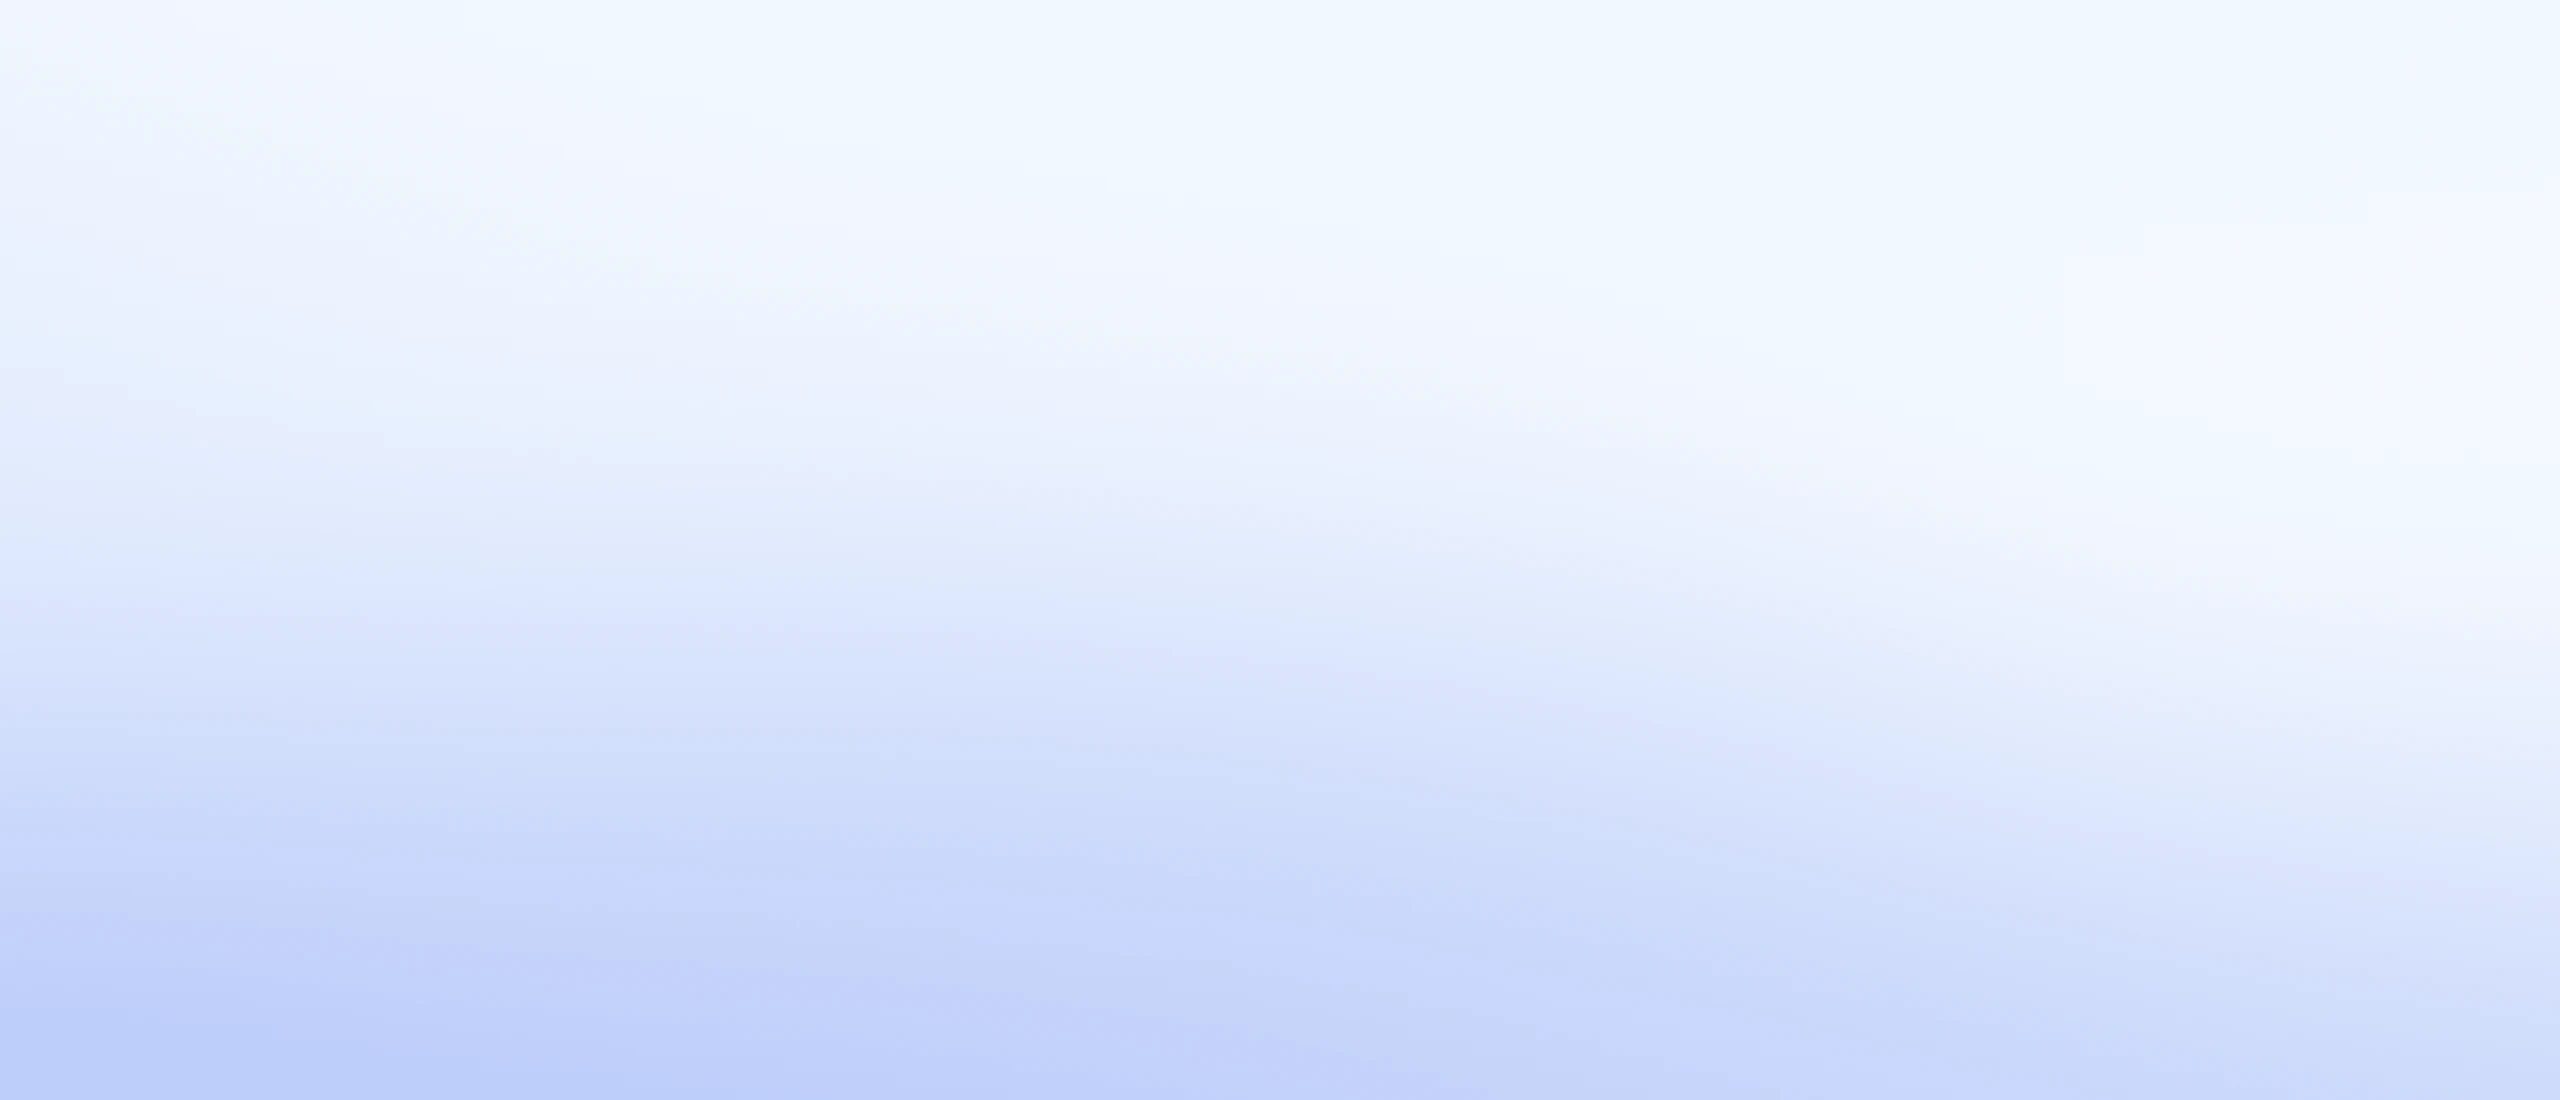
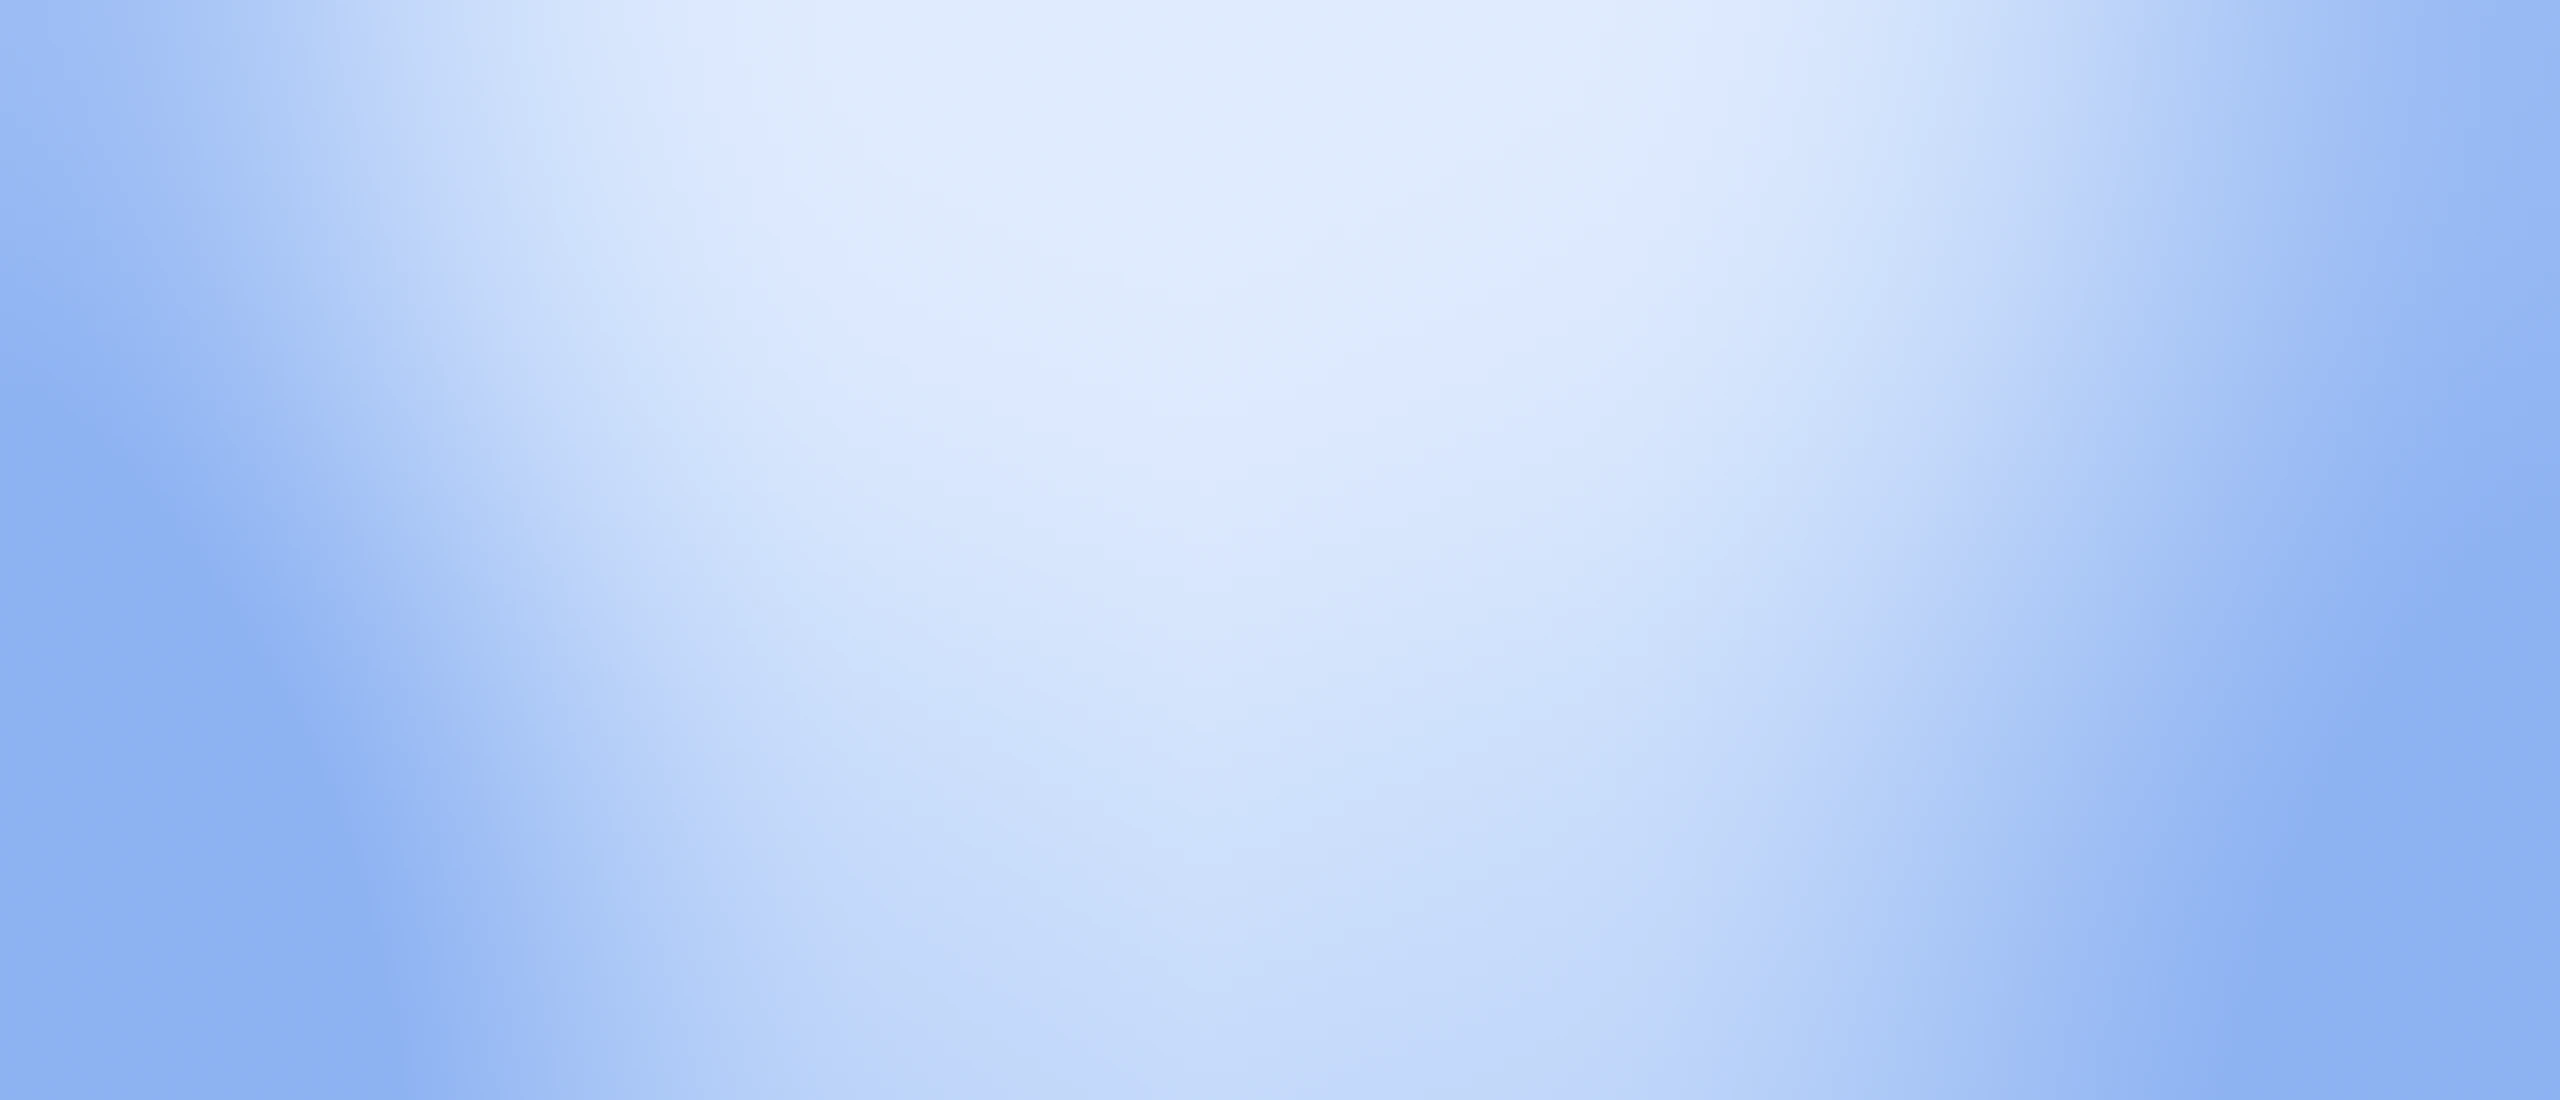
feat(home): give the hero wash real depth, visible grain and an edge (#541)
The homepage hero card read as an almost-white rectangle with no visible
corners. Measured, the complaint was exact: the wash lifted to luminance
0.948 at its top corner against a 0.9536 page ground — a 1.01:1 step, i.e.
no edge at all — and the flat areas carried 0.06-0.20 RMS of high-frequency
variation, which is to say none.

Three causes, three fixes.

1. THE FIELD WAS CORNER-ANCHORED AND `cover` CROPPED IT AWAY. A 2560px-wide
   field painted with `background-size: cover` shows its middle 66% at a 1440
   viewport and its middle 10% at 375, so a bottom-left-deep / top-right-pale
   ramp put all of its range off screen at the widths people use. The field
   is now a centre-lit vignette: a light column down the middle (the slice
   every crop keeps) falling away to the left and right rails and toward the
   bottom. The rails are structurally text-free — copy is capped at 780px
   inside a card up to 2509px wide — so they carry the range, and they sit
   exactly where the card meets the page. Rendered: 1.96:1 page-to-card step
   at 2560, 1.35:1 at 1440, card span 1.69:1 (was 1.02:1 and 1.07:1).

2. GRAIN CANNOT BE BAKED INTO A `cover` LAYER. Downscaling 2560px to 1411px
   averages per-pixel noise out of existence, which is why the existing ±1 LSB
   anti-banding dither was never going to be visible no matter how far it was
   pushed. The grain is now its own 192x192 tile, `repeat` at natural size, so
[…]

diff --git a/src/server/public/style.css b/src/server/public/style.css
@@ -1949,24 +1949,53 @@ html[data-theme="dark"],
    image 404s or WebP is unsupported, the card falls back to the flat tint it
    has today; nothing renders white.
 
-   The asset is generated, not licensed: scripts/make-hero-wash.mjs computes
-   the field per-pixel in float from these same tokens (base = a touch richer
-   than --surface-hero, deepening toward --accent at ~26% in the bottom-left,
-   lifting to near-white at the top-right), adds a low-frequency value-noise
-   mesh so it is never a pure ramp, and applies ±1 LSB triangular dither —
-   which is what keeps a 2560px-wide wash from banding at 8 bits. 2560×1100,
-   ~13 KB each.
+   The assets are generated, not licensed: scripts/make-hero-wash.mjs computes
+   the field per-pixel in float from these same tokens, adds a low-frequency
+   value-noise mesh so it is never a pure ramp, and applies ±1 LSB triangular
+   dither — which is what keeps a 2560px-wide wash from banding at 8 bits.
+   2560×1100, ~16 KB light / ~12 KB dark.
+
+   THE FIELD IS A CENTRE-LIT VIGNETTE, and the first cut was not. It deepened
+   toward the bottom-left and lifted to NEAR-WHITE at the opposite corner, and
+   near-white is the one thing it could not be: `--bg` is #F8FAFC at luminance
+   0.9536 and the lift reached 0.948, a 1.01:1 step. A 1.01:1 step is not an
+   edge — the card had no visible corners and the wash read as a flat white
+   field. `cover` made it worse, cropping a 2560px-wide field to its middle 66%
+   at 1440 and its middle 10% at 375, so whatever range the corners carried was
+   not on screen at the widths people actually use.
+
+   So: the light column runs down the MIDDLE, where every crop lands, and the
+   tone falls away to the left and right rails and toward the bottom. The rails
+   are structurally text-free (copy is capped at 780px inside a card up to
+   2509px wide), so they carry the range — and they sit exactly where the card
+   meets the page. Measured on the rendered page: palest pixel 0.786 against
+   the 0.954 page ground (1.20:1), rails down to 0.418 (1.89:1 at the 1440
+   crop), and the lead paragraph's `--muted` never drops below 4.8:1.
+
+   --surface-hero-grain is the TEXTURE, and it is a second, tiled layer rather
+   than part of the wash for a mechanical reason: `cover` downscales the wash,
+   and downscaling averages per-pixel grain out of existence. Tiled 1:1 at its
+   natural 192×192 it renders identically at every card width. It is
+   theme-invariant by construction — grey speckle over a constant low alpha
+   darkens a light ground and lightens a dark one by the same amount — so one
+   17.5 KB asset serves both themes and there is no second token to keep in
+   sync. Amplitude is 3.85 RMS from the local mean, set against a measurement
+   of the reference treatment (~4.3 RMS): enough to read as texture at 100%,
+   not enough to read as dirt or to cost text contrast.
 
    Split light/dark by the SAME cascade `--surface-hero` uses six lines up, so
    one switch drives both the base colour and the image. The dark variant is a
    real sibling (anchored on #131A28, same field, same accent) rather than a
    suppression: a flat rectangle in dark next to a washed card in light reads
-   as the unfinished theme.
+   as the unfinished theme. Its envelope is bounded at the TOP instead of the
+   bottom — dark `--muted` #90A1B9 needs the ground under luminance 0.0386 —
+   so it runs 0.018 → 0.035, a 1.23:1 step off the #0C111D page ground.
 
    Appended at EOF for baseline-protocol.md rule 1 (the guards key file:line).
    ───────────────────────────────────────────────────────────────────────── */
 :root {
   --surface-hero-image: url("/brand/hero-wash-light.webp");
+  --surface-hero-grain: url("/brand/hero-grain.webp");
 }
 html[data-theme="dark"],
 :root:not([data-theme="light"]) {

diff --git a/src/server/public/landing-home-grid.css b/src/server/public/landing-home-grid.css
@@ -34,22 +34,42 @@
 /* The card itself: a soft blue WASH, 12px radius, a ~14px page rail down both
    sides, flush under the sticky header.
 
-   The wash is `--surface-hero-image`, a generated decorative raster (style.css
-   EOF explains how it is made and why it is a raster and not a CSS gradient —
-   the design law forbids gradients, and the reference achieves this look the
-   same way). It is layered OVER the flat `--surface-hero` colour, so a failed
-   or unsupported image leaves the card on the tint it had before, never white.
+   TWO decorative rasters, both generated (style.css EOF explains how and why
+   they are rasters and not CSS gradients — the design law forbids gradients).
+   Both sit OVER the flat `--surface-hero` colour, so a failed or unsupported
+   image leaves the card on the tint it had before, never white.
 
-   `cover` + `50% 100%` is the geometry that survives every width: the field's
-   deepening runs along the bottom edge, so anchoring to centre-bottom keeps
-   the focal area pinned to the base of the card from a 367px-wide portrait
-   crop at 375px right out to a 2509px-wide ultrawide one. */
+   Layer order is top-to-bottom in the shorthand:
+
+   1. `--surface-hero-grain` — a 192×192 film-grain tile, `repeat` at its
+      NATURAL size. It must not be part of the wash: the wash is painted with
+      `cover`, and `cover` downscales a 2560px field to ~1411px at a 1440
+      viewport, which averages per-pixel grain straight out of existence.
+      Tiled at 1:1 it survives at every card width unchanged. Theme-invariant
+      — grey speckle darkens a light ground and lightens a dark one by the
+      same amount, so one asset serves both.
+   2. `--surface-hero-image` — the wash, `cover` at `50% 100%`. The field is a
+      centre-lit vignette: a light column down the middle (the only slice a
+      narrow viewport ever sees) with the tone falling away to the left and
+      right rails and toward the bottom. Anchoring to centre-bottom keeps the
+      deep base pinned to the foot of the card from a 367px-wide portrait crop
+      at 375px right out to a 2509px-wide ultrawide one.
+
+   THE HAIRLINE IS LOAD-BEARING, not decoration. The wash's rails do most of
+   the work of separating the card from `--bg` — at 1440 the visible crop puts
+   luminance ~0.48 against the page's 0.954, a 1.89:1 step — but at 375 the
+   card is 368px of a 375px viewport, `cover` shows only the light centre
+   column, and there is barely any page ground left beside the corners. A 1px
+   `--border-strong` rim (light #CAD5E2 = 1.77:1 against the page ground; dark
+   a 28% light wash) makes the 12px radius read as an edge at every width,
+   independently of what the crop happens to show. */
 .qf-hhero__card {
   background-color: var(--surface-hero);
-  background-image: var(--surface-hero-image);
-  background-repeat: no-repeat;
-  background-position: 50% 100%;
-  background-size: cover;
+  background-image: var(--surface-hero-grain), var(--surface-hero-image);
+  background-repeat: repeat, no-repeat;
+  background-position: 0 0, 50% 100%;
+  background-size: auto, cover;
+  border: 1px solid var(--border-strong);
   border-radius: var(--radius);
   max-width: 98%;
   margin: 0 auto;
